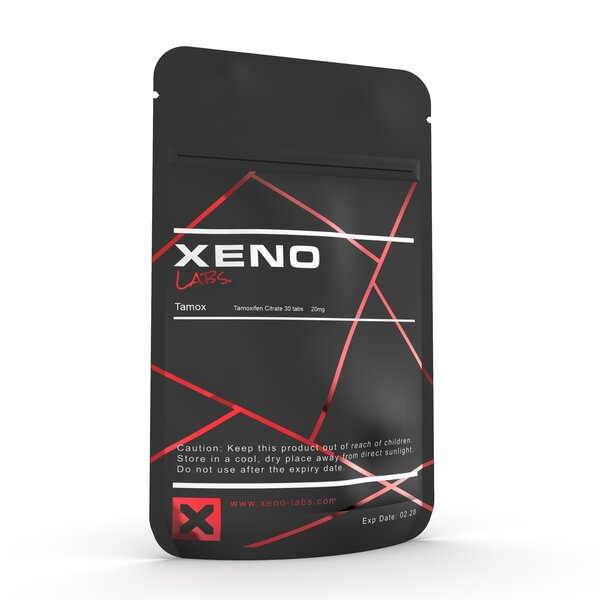
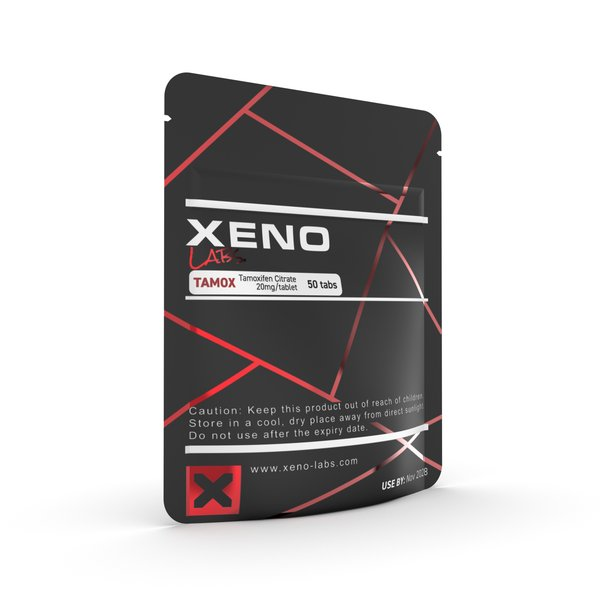
Repoint Tamox at the 50-tab master row and reprice to $47
The live xeno-tamox card tracked master row 310 "XENO Tamox" (stock 0)
while the supplier's current listing is row 320 "XENO Tamox (50 Tabs)".
Lester confirmed they are the same product, so the card is repointed
rather than duplicated: only the MATCH literal inside the Sheet1 formula
changed, asserted by diffing every quoted string in it, and the row's
Master Product Name and Master Row were updated to match. Stock now
reads 5 instead of 0, so the card is still Out of Stock under the <20
threshold - the repoint corrects the mapping, it does not make it
buyable.

The image was wrong too and this is what gave the duplicate away: the
old images/xeno-tamox.jpg is a 30-tab pouch, under copy that already
claimed 50 tablets. Replaced with the 50-tab artwork at 600x600, so the
card, its copy and the sheet row finally agree.

Price $50.00 -> $47.00 in the card, data-price, JSON-LD and
FEATURED_CATALOG. The data-id is unchanged, so the p/ URL still resolves
for anyone who already has the link.

Changed region(s): [[0.24, 0.06, 0.78, 0.96], [0.45, 0.21, 0.6, 0.3]]

diff --git a/p/xeno-tamox.html b/p/xeno-tamox.html
@@ -49,7 +49,7 @@
   "url": "https://godmusclegears.com/p/xeno-tamox.html",
   "offers": {
     "@type": "Offer",
-    "price": "50.00",
+    "price": "47.00",
     "priceCurrency": "USD",
     "url": "https://godmusclegears.com/p/xeno-tamox.html"
   }
@@ -99,10 +99,10 @@
 <h1 class="card-title h3">Tamox</h1>
 <p class="card-text">Buy Nolvadex Tamoxifen 20mg online. Xeno Labs 50 tablets. PCT and anti-estrogen essential. Ships to USA.</p>
 <div class="price-row">
-<span class="fw-bold" data-price-for="xeno-tamox">$50.00</span>
+<span class="fw-bold" data-price-for="xeno-tamox">$47.00</span>
 <button type="button" class="share-btn" data-share-url="https://godmusclegears.com/p/xeno-tamox.html" data-share-title="Tamox" aria-label="Share Tamox" title="Copy link"><svg width="18" height="18" viewBox="0 0 24 24" fill="none" stroke="currentColor" stroke-width="2" stroke-linecap="round" stroke-linejoin="round" aria-hidden="true" focusable="false"><path d="M10 13a5 5 0 0 0 7.54.54l3-3a5 5 0 0 0-7.07-7.07l-1.72 1.71"/><path d="M14 11a5 5 0 0 0-7.54-.54l-3 3a5 5 0 0 0 7.07 7.07l1.71-1.71"/></svg></button>
 </div>
-<button class="add-to-cart" data-id="xeno-tamox" data-image="images/xeno-tamox.jpg" data-name="Tamox" data-price="50.00">Add to Cart</button>
+<button class="add-to-cart" data-id="xeno-tamox" data-image="images/xeno-tamox.jpg" data-name="Tamox" data-price="47.00">Add to Cart</button>
 </div>
 </div>
 </div>

diff --git a/products.html b/products.html
@@ -6934,7 +6934,7 @@
         },
         "offers": {
           "@type": "Offer",
-          "price": "50.00",
+          "price": "47.00",
           "priceCurrency": "USD",
           "availability": "https://schema.org/InStock",
           "url": "https://godmusclegears.com/products.html",
@@ -10473,10 +10473,10 @@
 <h5 class="card-title">Tamox</h5>
 <p class="card-text">Buy Nolvadex Tamoxifen 20mg online. Xeno Labs 50 tablets. PCT and anti-estrogen essential. Ships to USA.</p>
 <div class="price-row">
-<span class="fw-bold">$50.00</span>
+<span class="fw-bold">$47.00</span>
 <button type="button" class="share-btn" data-share-url="https://godmusclegears.com/p/xeno-tamox.html" data-share-title="Tamox" aria-label="Share Tamox" title="Copy link"><svg width="18" height="18" viewBox="0 0 24 24" fill="none" stroke="currentColor" stroke-width="2" stroke-linecap="round" stroke-linejoin="round" aria-hidden="true" focusable="false"><path d="M10 13a5 5 0 0 0 7.54.54l3-3a5 5 0 0 0-7.07-7.07l-1.72 1.71"/><path d="M14 11a5 5 0 0 0-7.54-.54l-3 3a5 5 0 0 0 7.07 7.07l1.71-1.71"/></svg></button>
 </div>
-<button class="add-to-cart" data-id="xeno-tamox" data-image="images/xeno-tamox.jpg" data-name="Tamox" data-price="50.00">Add to Cart</button>
+<button class="add-to-cart" data-id="xeno-tamox" data-image="images/xeno-tamox.jpg" data-name="Tamox" data-price="47.00">Add to Cart</button>
 </div>
 </div>
 </div>

diff --git a/script.js b/script.js
@@ -871,7 +871,7 @@ const FEATURED_CATALOG = (function () {
     ['xeno-primo-s',                  'Primo S',                                75.00, 'images/xeno-primo-s.jpg',                 'Xeno', 'Oral'],
     ['xeno-superdrol',                'Superdrol',                              55.00, 'images/xeno-superdrol.jpg',               'Xeno', 'Oral'],
     ['xeno-turinabol',                'Turinabol',                              68.00, 'images/xeno-turinabol.jpg',               'Xeno', 'Oral'],
-    ['xeno-tamox',                    'Tamox',                                  50.00, 'images/xeno-tamox.jpg',                   'Xeno', 'Oral'],
+    ['xeno-tamox',                    'Tamox',                                  47.00, 'images/xeno-tamox.jpg',                   'Xeno', 'Oral'],
     ['xeno-clomiphene',               'Clomiphene',                             80.00, 'images/xeno-clomiphene.jpg',              'Xeno', 'Oral'],
     ['xeno-clenbuterol',              'Clenbuterol',                           138.00, 'images/xeno-clenbuterol.jpg',             'Xeno', 'Oral'],
   ];
